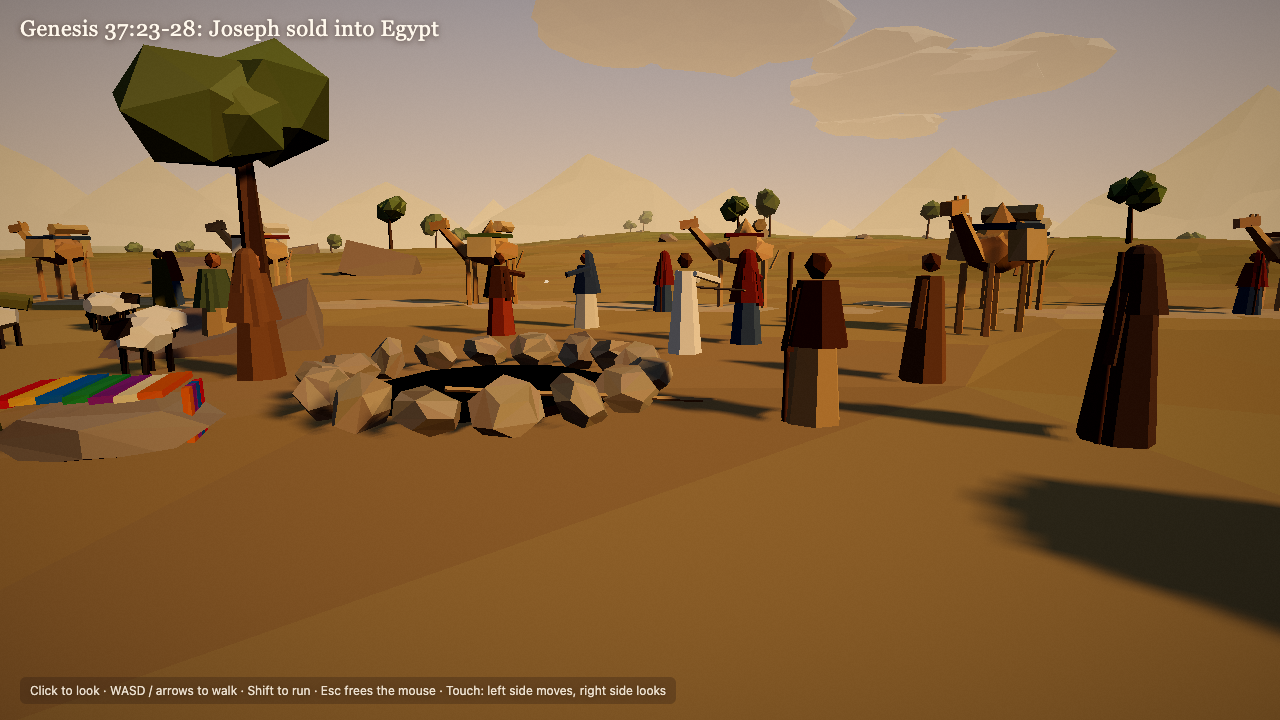
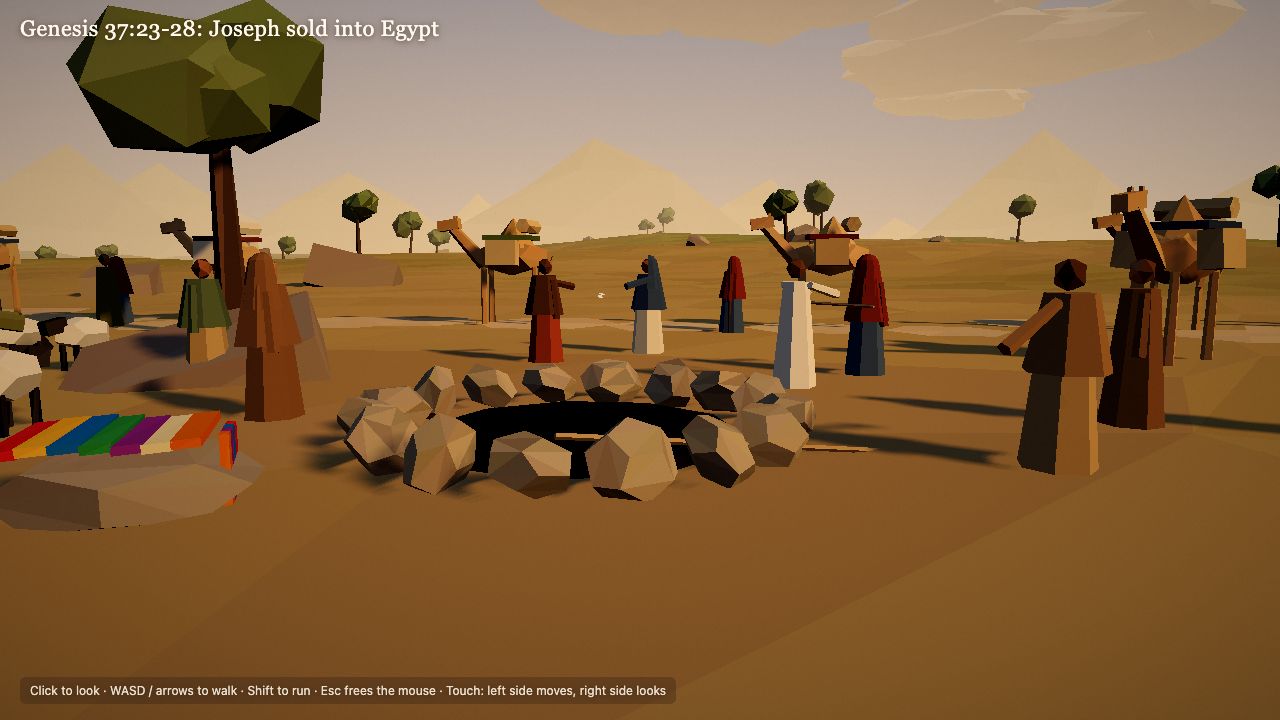
feat: polish lowpoly scenes ot-13 to ot-18

diff --git a/styles/lowpoly/scenes/ot-16.js b/styles/lowpoly/scenes/ot-16.js
@@ -33,6 +33,47 @@ function bush(ctx) {
   ctx.effects.motes({ position: [x, top, z], radius: 1.4, height: 9, count: 90, color: '#ffc870', size: 0.05, seed: 16 });
 }
 
+// Horeb as one ridged massif: each peak is a sharp cone, and taking the highest cone at every point leaves saddles and ridgelines between summits.
+function massif(ctx) {
+  const peaks = [
+    [-30, -230, 125, 115],
+    [-100, -250, 95, 80],
+    [40, -248, 100, 85],
+    [-175, -275, 72, 85],
+    [115, -285, 80, 95],
+    [-68, -190, 55, 55],
+    [4, -185, 48, 50],
+  ];
+  const base = ctx.heightAt(0, -200) - 8;
+  const geo = new THREE.PlaneGeometry(560, 300, 84, 44).rotateX(-Math.PI / 2).translate(-35, 0, -260).toNonIndexed();
+  const pos = geo.attributes.position;
+  const heightAt = (x, z) => {
+    let h = 0;
+    for (const [px, pz, ph, pr] of peaks) {
+      const k = Math.max(0, 1 - Math.hypot((x - px) * 0.85, z - pz) / pr);
+      h = Math.max(h, ph * Math.pow(k, 1.25));
+    }
+    const ridges = Math.abs(Math.sin(x * 0.07 + z * 0.03)) * 9 + Math.sin(x * 0.19 - z * 0.11) * 3;
+    return h + ridges * Math.min(1, h / 30);
+  };
+  for (let i = 0; i < pos.count; i++) pos.setY(i, base + heightAt(pos.getX(i), pos.getZ(i)));
+  geo.computeVertexNormals();
+  const col = new Float32Array(pos.count * 3);
+  const low = new THREE.Color('#7a5a4c'), mid = new THREE.Color('#9a6a56'), high = new THREE.Color('#b88470'), c = new THREE.Color();
+  const nrm = geo.attributes.normal;
+  for (let i = 0; i < pos.count; i += 3) {
+    const y = (pos.getY(i) + pos.getY(i + 1) + pos.getY(i + 2)) / 3 - base;
+    const steep = 1 - nrm.getY(i);
+    c.copy(low).lerp(mid, Math.min(1, y / 60)).lerp(high, Math.max(0, Math.min(1, (y - 60) / 60)));
+    c.multiplyScalar(1 - steep * 0.35 + (ctx.rand() - 0.5) * 0.08);
+    for (let k = 0; k < 3; k++) col.set([c.r, c.g, c.b], (i + k) * 3);
+  }
+  geo.setAttribute('color', new THREE.BufferAttribute(col, 3));
+  const mesh = new THREE.Mesh(geo, new THREE.MeshLambertMaterial({ vertexColors: true, flatShading: true }));
+  mesh.receiveShadow = true;
+  ctx.scene.add(mesh);
+}
+
 export default {
   title: 'Exodus 3:1-6: The burning bush',
   seed: 3,
@@ -44,18 +85,18 @@ export default {
   sky: { top: '#2a3060', horizon: '#e88a5a', ground: '#7a5a50', sunColor: '#ffb070', glow: 1.3 },
   fog: { color: '#8a6a6a', near: 60, far: 520 },
   clouds: { count: 40, shadow: '#3a3048', lit: '#f08a60', rim: '#ffd0a0', distance: [260, 900], altitude: [90, 220], hole: 0.15 },
-  mountains: { count: 50, color: '#4a4048', radius: [450, 700], height: [80, 200], haze: 0.45 },
+  mountains: { count: 50, color: '#4a3c48', radius: [500, 760], height: [40, 110], haze: 0.5 },
   bloom: { strength: 0.8, radius: 0.6, threshold: 0.8 },
   grade: { saturation: 1.12, contrast: 1.08, vignette: 0.5, shadowTint: '#2a2050', highlightTint: '#ffd6a8' },
   shadow: { center: [0, -8], radius: 45 },
 
-  player: { start: [3, 0], yaw: 0.12, pitch: 0.02, eye: 1.65, speed: 4 },
+  player: { start: [2.6, -3.6], yaw: 0.26, pitch: 0.1, eye: 1.65, speed: 4 },
 
   terrain: {
     size: 900,
     segments: 220,
     seed: 30,
-    hills: 70,
+    hills: 38,
     hillScale: 0.009,
     bumps: 0.6,
     flats: [{ x: 0, z: -4, r: 22, falloff: 40, height: 4 }],
@@ -70,14 +111,11 @@ export default {
 
   custom(ctx) {
     bush(ctx);
-    // Horeb's peak rising behind the bush.
-    for (const [x, z, r, h, c] of [[-10, -190, 70, 95, '#7a6460'], [50, -210, 60, 70, '#806a62'], [-80, -200, 55, 60, '#74605a'], [10, -170, 40, 45, '#86706a']]) {
-      ctx.solid.add(new THREE.DodecahedronGeometry(1, 0), { position: [x, ctx.heightAt(x, z) - h * 0.35, z], rotation: [0.15, ctx.rand() * 3, 0.1], scale: [r * 1.3, h, r], color: c, jitter: 0.1 });
-    }
+    massif(ctx);
 
     // Moses kneels with his face hidden, shoes off, staff laid beside him.
     const M = [-2.0, -10.2];
-    person(ctx, { x: M[0], z: M[1], face: BUSH, robe: '#8a6a48', mantle: '#5a4434', hood: true, skin: '#9b6a46', pose: 'kneel', arms: 'face' });
+    person(ctx, { x: M[0], z: M[1], face: BUSH, robe: '#a87e56', mantle: '#74563e', hood: true, skin: '#9b6a46', pose: 'kneel', arms: 'face' });
     const y = ctx.heightAt(M[0], M[1]);
     for (const dx of [1.0, 1.25]) ctx.solid.box(0.12, 0.05, 0.28, { position: [M[0] + dx, ctx.heightAt(M[0] + dx, M[1] + 1.2) + 0.03, M[1] + 1.2], rotation: [0, 0.3, 0], color: '#5a3a24' });
     ctx.solid.add(new THREE.CylinderGeometry(0.03, 0.035, 1.9, 5), { position: [M[0] - 0.8, y + 0.06, M[1] + 0.3], rotation: [0, 0.4, Math.PI / 2], color: '#5a4030' });

diff --git a/styles/lowpoly/scenes/ot-15.js b/styles/lowpoly/scenes/ot-15.js
@@ -30,7 +30,7 @@ function basket(ctx) {
   const cloth = new THREE.Mesh(new THREE.BoxGeometry(0.4, 0.08, 0.3), new THREE.MeshLambertMaterial({ color: '#efe8d8' }));
   cloth.position.set(0, 0.06, 0.25);
   g.add(cloth);
-  g.scale.setScalar(1.4);
+  g.scale.setScalar(1.8);
   g.position.set(BASKET[0], WATER_Y, BASKET[1]);
   g.rotation.y = 0.6;
   g.traverse((m) => (m.castShadow = true));
@@ -44,7 +44,7 @@ function basket(ctx) {
 export default {
   title: 'Exodus 2:1-10: Moses in the bulrushes',
   seed: 2,
-  fov: 60,
+  fov: 44,
   exposure: 1.0,
 
   sun: { direction: [0.8, 0.35, -0.3], color: '#ffd6a0', intensity: 3.0 },
@@ -57,7 +57,7 @@ export default {
   grade: { saturation: 1.12, contrast: 1.05, vignette: 0.35, shadowTint: '#2a3a50', highlightTint: '#ffe8c4' },
   shadow: { center: [0, -6], radius: 40 },
 
-  player: { start: [0.8, 1.8], yaw: -0.02, pitch: -0.1, eye: 1.65, speed: 4 },
+  player: { start: [4.6, 3.2], yaw: 0.1, pitch: -0.04, eye: 1.65, speed: 4 },
 
   terrain: {
     size: 640,
@@ -82,7 +82,7 @@ export default {
     ctx.scene.add(far);
 
     basket(ctx);
-    reeds(ctx, { x: 5.8, z: -10.5, r: 2.4, count: 70, papyrus: 0.5, minY: -0.9 });
+    reeds(ctx, { x: 7.0, z: -11.6, r: 2.0, count: 60, papyrus: 0.5, minY: -0.9 });
     reeds(ctx, { x: 1.0, z: -11.8, r: 1.8, count: 40, papyrus: 0.5, minY: -0.9 });
     reeds(ctx, { x: 4.0, z: -13.2, r: 2.2, count: 50, papyrus: 0.5, minY: -0.9 });
     reeds(ctx, { x: 9.5, z: -7.5, r: 2.6, count: 70, papyrus: 0.45, minY: -0.9 });
@@ -92,7 +92,7 @@ export default {
     }
     for (let x = -80; x < 80; x += 5 + ctx.rand() * 6) reeds(ctx, { x, z: RIVER_Z - 15 + ctx.rand.range(-2, 1), r: ctx.rand.range(1.5, 3), count: 25, papyrus: 0.5, minY: -0.9 });
 
-    palm(ctx, { x: -9, z: -3, h: 8 });
+    palm(ctx, { x: -13, z: -6.5, h: 8 });
     palm(ctx, { x: -11.5, z: 1, h: 6.5 });
     palm(ctx, { x: 14, z: -2, h: 7.5 });
     palm(ctx, { x: 17, z: 3, h: 9 });
@@ -103,18 +103,18 @@ export default {
 
     // Pharaoh's daughter at the water's edge, pointing to the ark.
     const linen = '#f4efe2';
-    person(ctx, { x: -1.2, z: -6.6, face: BASKET, robe: linen, skin: '#a87652', arms: ['down', 'forward'], collar: '#d6a83a', nemes: '#1e1712', belt: '#2f6aa0', scale: 1.02 });
+    person(ctx, { x: -1.2, z: -6.6, face: BASKET, robe: linen, skin: '#a87652', arms: ['down', 'forward'], collar: '#d6a83a', nemes: '#2e2620', belt: '#2f6aa0', scale: 1.02 });
     // Her maid wading out to fetch it.
-    person(ctx, { x: 2.2, z: -9.6, y: -0.95, face: BASKET, robe: '#e6dcc4', skin: '#9b6a46', arms: 'forward', nemes: '#1e1712' });
+    person(ctx, { x: 2.2, z: -9.6, y: -0.95, face: BASKET, robe: '#e6dcc4', skin: '#9b6a46', arms: 'forward', nemes: '#2e2620' });
     // Her maidens walking along the river's side.
     const maidens = [[-4.4, -5.2], [-5.8, -3.4], [-3.2, -3.2], [-7.2, -5.8]];
-    maidens.forEach(([x, z], i) => person(ctx, { x, z, face: [-1, -7], robe: i % 2 ? '#e8e0c8' : '#d8ccb0', skin: '#9b6a46', nemes: '#1e1712', collar: i === 0 ? '#3f8a8a' : null, arms: i === 2 ? 'face' : 'down' }));
+    maidens.forEach(([x, z], i) => person(ctx, { x, z, face: [-1, -7], robe: i % 2 ? '#e8e0c8' : '#d8ccb0', skin: '#9b6a46', nemes: '#2e2620', collar: i === 0 ? '#3f8a8a' : null, arms: i === 2 ? 'face' : 'down' }));
     // A parasol carried by one of them.
     ctx.solid.add(new THREE.CylinderGeometry(0.03, 0.03, 2.6, 5), { position: [-5.6, 1.3, -3.1], color: '#6a4a2c' });
     ctx.solid.add(new THREE.ConeGeometry(1.1, 0.4, 8), { position: [-5.6, 2.7, -3.1], color: '#e8d8a8' });
     // Miriam, watching from the reeds.
-    person(ctx, { x: 10.4, z: -5.6, face: BASKET, robe: '#7a5a3c', mantle: '#a34f32', hood: true, skin: '#9b6a46', pose: 'kneel', scale: 0.8 });
-    reeds(ctx, { x: 11.2, z: -4.2, r: 1.4, count: 30, papyrus: 0.3 });
+    person(ctx, { x: 7.6, z: -4.6, face: BASKET, robe: '#7a5a3c', mantle: '#a34f32', hood: true, skin: '#9b6a46', pose: 'kneel', scale: 0.8 });
+    reeds(ctx, { x: 8.6, z: -3.6, r: 1.1, count: 22, papyrus: 0.3 });
 
     // washing jars and folded linen on the bank
     for (const [x, z, c] of [[-6.2, -1.6, '#b0603a'], [-6.7, -1.1, '#c0784a'], [-5.6, -0.9, '#a8583a']]) {

diff --git a/styles/lowpoly/scenes/lib/ot-13-kit.js b/styles/lowpoly/scenes/lib/ot-13-kit.js
@@ -1,5 +1,6 @@
 // Shared props for ot-13 through ot-18: people with poses, animals, water, fire, Egyptian buildings, night sky.
 import * as THREE from 'three';
+import { mergeGeometries } from 'three/addons/utils/BufferGeometryUtils.js';
 import { parts } from '../../engine/crowd.js';
 
 export function frame(x, z, rot = 0) {
@@ -31,6 +32,17 @@ function paint(geo, colorAt) {
   g.setAttribute('color', new THREE.BufferAttribute(col, 3));
   g.computeVertexNormals();
   return g;
+}
+
+// Straight-cut Egyptian bob: a crown dome whose front edge is the fringe, and a skirt cut level at the jaw.
+function bobWig(color) {
+  const faceGap = Math.PI * 0.62;
+  const dome = new THREE.SphereGeometry(0.168, 10, 4, 0, Math.PI * 2, 0, Math.PI / 2).scale(1.05, 0.9, 1.08).translate(0, 1.565, -0.005);
+  const skirt = new THREE.CylinderGeometry(0.176, 0.2, 0.24, 10, 1, true, faceGap / 2, Math.PI * 2 - faceGap).translate(0, 1.445, -0.012);
+  const hem = new THREE.RingGeometry(0.15, 0.2, 10, 1, Math.PI / 2 + faceGap / 2, Math.PI * 2 - faceGap).rotateX(Math.PI / 2).translate(0, 1.326, -0.012);
+  const shade = (y) => new THREE.Color(y < 1.45 ? 0.8 : 1, y < 1.45 ? 0.8 : 1, y < 1.45 ? 0.8 : 1);
+  const merged = mergeGeometries([dome, skirt, hem].map((g) => paint(g, shade)));
+  return new THREE.Mesh(merged, new THREE.MeshLambertMaterial({ color, vertexColors: true, flatShading: true, side: THREE.DoubleSide }));
 }
 
 const ARM_POSES = { down: [0.12, 0.05], out: [0.95, 0.35], up: [2.75, 0.2], forward: [0.18, 1.35], open: [0.7, 0.9], face: [0.5, 2.3] };
@@ -69,14 +81,7 @@ export function person(ctx, o) {
     if (ra === 'forward') s.rotation.x = 0.9;
     group.add(s);
   }
-  if (nemes) {
-    const cap = new THREE.Mesh(new THREE.CylinderGeometry(0.14, 0.18, 0.3, 8, 1).translate(0, 1.62, -0.085), mat(nemes));
-    group.add(cap);
-    for (const side of [-1, 1]) {
-      const lap = new THREE.Mesh(new THREE.BoxGeometry(0.08, 0.3, 0.06).translate(side * 0.15, 1.38, 0.06), mat(nemes));
-      group.add(lap);
-    }
-  }
+  if (nemes) group.add(bobWig(nemes));
   if (collar) group.add(new THREE.Mesh(new THREE.CylinderGeometry(0.24, 0.27, 0.07, 10).translate(0, 1.35, 0), mat(collar, 0.25)));
   if (belt) group.add(new THREE.Mesh(new THREE.CylinderGeometry(0.235, 0.24, 0.08, 7).translate(0, 0.86, 0), mat(belt, 0.1)));
 

diff --git a/styles/lowpoly/scenes/ot-17.js b/styles/lowpoly/scenes/ot-17.js
@@ -35,7 +35,7 @@ function mainHouse(ctx) {
   const light = new THREE.PointLight('#ffb070', 22, 14, 1.3);
   light.position.set(x, y + 2.4, z - 0.8);
   ctx.scene.add(light);
-  const spill = new THREE.PointLight('#ffa860', 6, 7, 1.4);
+  const spill = new THREE.PointLight('#ffa860', 9, 9, 1.4);
   spill.position.set(x, y + 1.6, z + 4.6);
   ctx.scene.add(spill);
   // table with the roasted lamb, unleavened bread and bitter herbs
@@ -68,7 +68,7 @@ function mainHouse(ctx) {
   const [bx, bz] = [x + 1.6, z + 4.3];
   ctx.solid.add(new THREE.CylinderGeometry(0.35, 0.25, 0.25, 8), { position: [bx, y + 0.13, bz], color: '#8a6a4a' });
   ctx.solid.add(new THREE.CircleGeometry(0.3, 8).rotateX(-Math.PI / 2), { position: [bx, y + 0.26, bz], color: '#5a0a0c' });
-  ctx.solid.add(new THREE.CylinderGeometry(0.015, 0.015, 0.6, 4), { position: [bx + 0.15, y + 0.3, bz], rotation: [0, 0, 0.6], color: '#6a7a3a' });
+  ctx.solid.add(new THREE.CylinderGeometry(0.015, 0.015, 0.6, 4), { position: [bx + 0.15, y + 0.3, bz], rotation: [0, 0, -0.6], color: '#6a7a3a' });
   ctx.solid.add(new THREE.IcosahedronGeometry(0.1, 0), { position: [bx + 0.3, y + 0.55, bz], color: '#5a7a3a' });
 }
 
@@ -78,8 +78,8 @@ export default {
   fov: 62,
   exposure: 1.1,
 
-  sun: { direction: [0.35, 0.5, 0.8], color: '#6a84c8', intensity: 0.75 },
-  light: { sky: '#3a4a88', ground: '#2a2232', hemi: 0.95 },
+  sun: { direction: [0.35, 0.5, 0.8], color: '#7a94d8', intensity: 1.1 },
+  light: { sky: '#4a5a98', ground: '#3a3040', hemi: 1.15 },
   sky: { top: '#060a1e', horizon: '#1e2a4a', ground: '#141420', sunColor: '#8aa0d0', glow: 0.25 },
   fog: { color: '#141a30', near: 30, far: 200 },
   mountains: { count: 30, color: '#141828', radius: [420, 600], height: [20, 50], haze: 0.4 },
@@ -87,7 +87,7 @@ export default {
   grade: { saturation: 1.05, contrast: 1.1, vignette: 0.5, shadowTint: '#101830', highlightTint: '#ffd6a0' },
   shadow: { center: [0, -2], radius: 40 },
 
-  player: { start: [1.2, 4.2], yaw: 0.05, pitch: -0.02, eye: 1.65, speed: 3.5 },
+  player: { start: [0.9, 0.9], yaw: 0.06, pitch: 0.0, eye: 1.65, speed: 3.5 },
 
   terrain: {
     size: 600,

diff --git a/styles/lowpoly/scenes/ot-13.js b/styles/lowpoly/scenes/ot-13.js
@@ -72,7 +72,7 @@ function caravan(ctx) {
 export default {
   title: 'Genesis 37:23-28: Joseph sold into Egypt',
   seed: 37,
-  fov: 60,
+  fov: 50,
   exposure: 1.0,
 
   sun: { direction: [0.7, 0.45, 0.35], color: '#ffd29a', intensity: 3.0 },
@@ -85,7 +85,7 @@ export default {
   grade: { saturation: 1.1, contrast: 1.06, vignette: 0.38, shadowTint: '#3a2e50', highlightTint: '#ffe6c0' },
   shadow: { center: [0, -12], radius: 60 },
 
-  player: { start: [2.5, 1.2], yaw: 0.1, pitch: -0.17, eye: 1.65, speed: 4.5 },
+  player: { start: [1.4, 1.0], yaw: 0.12, pitch: -0.13, eye: 1.65, speed: 4.5 },
 
   terrain: {
     size: 1100,
@@ -143,13 +143,13 @@ export default {
     const brothers = [
       [-3.4, -6.5, robes.brown, '#7d5c3e', 'down'],
       [-4.2, -3.6, robes.olive, null, 'forward'],
-      [3.6, -5, robes.tan, '#5a3d2b', 'down'],
+      [4.0, -5.4, robes.tan, '#8a6a48', 'out'],
       [-4.6, -1.2, robes.grey, '#8a7a5a', 'down'],
-      [6.2, -4.6, robes.dark, null, 'down'],
+      [7.4, -6.8, robes.grey, '#7d5c3e', 'down'],
       [-5.5, -8.4, robes.tan, '#556246', 'down'],
       [5.4, -7.2, robes.brown, null, 'down'],
     ];
-    for (const [x, z, robe, mantle, arms] of brothers) person(ctx, { x, z, face: [1.5, -9.5], robe, mantle, skin: ctx.rand.pick(['#8a5a3c', '#9b6a46', '#a87652']), arms, staff: arms === 'down' && ctx.rand() < 0.5, hood: ctx.rand() < 0.3 });
+    for (const [x, z, robe, mantle, arms] of brothers) person(ctx, { x, z, face: [x > 0 ? 0.5 : -0.5, -8], robe, mantle, skin: ctx.rand.pick(['#8a5a3c', '#9b6a46', '#a87652']), arms, staff: arms === 'down' && ctx.rand() < 0.5, hood: ctx.rand() < 0.3 });
 
     // Their father's flock grazing on the hillside.
     for (let i = 0; i < 46; i++) {

diff --git a/styles/lowpoly/scenes/ot-14.js b/styles/lowpoly/scenes/ot-14.js
@@ -99,7 +99,7 @@ function shafts(ctx, sunDir) {
 export default {
   title: 'Genesis 45:1-15: Joseph reveals himself',
   seed: 45,
-  fov: 62,
+  fov: 54,
   exposure: 1.05,
 
   sun: { direction: [0.62, 0.72, 0.1], color: '#ffd8a0', intensity: 3.2 },
@@ -110,7 +110,7 @@ export default {
   grade: { saturation: 1.1, contrast: 1.08, vignette: 0.45, shadowTint: '#3a2a40', highlightTint: '#ffe2b0' },
   shadow: { center: [0, (Z0 + Z1) / 2], radius: 30 },
 
-  player: { start: [0.5, 2.8], yaw: 0.02, pitch: -0.02, eye: 1.65, speed: 3.5 },
+  player: { start: [0.3, -0.2], yaw: 0.0, pitch: 0.02, eye: 1.65, speed: 3.5 },
 
   terrain: {
     size: 400,
@@ -143,12 +143,12 @@ export default {
     const brothers = [
       [-2.6, -6.4, 'stand', 'face', '#8b6b4a', '#5a3d2b'],
       [-1.6, -4.4, 'kneel', 'down', '#a0825c', null],
-      [2.2, -5.0, 'bow', 'down', '#7a4e36', '#3f4d5e'],
+      [2.2, -5.0, 'kneel', 'forward', '#7a4e36', '#3f4d5e'],
       [3.2, -6.6, 'stand', 'face', '#6e5a44', '#8a7a5a'],
       [-4.4, -4.6, 'stand', 'down', '#94704e', '#556246'],
       [4.6, -3.6, 'kneel', 'down', '#5e4b3a', '#a34f32'],
       [-3.6, -2.4, 'stand', 'face', '#b59a72', '#6d3b2e'],
-      [-5.4, -6.8, 'bow', 'down', '#6b6f4a', null],
+      [-5.4, -6.8, 'kneel', 'face', '#6b6f4a', null],
       [3.4, -2.0, 'stand', 'open', '#9a4a34', '#5a3d2b'],
       [5.6, -6.0, 'stand', 'down', '#4f5a6b', '#8a7a5a'],
     ];

diff --git a/styles/lowpoly/scenes/ot-18.js b/styles/lowpoly/scenes/ot-18.js
@@ -71,7 +71,7 @@ export default {
   grade: { saturation: 1.1, contrast: 1.08, vignette: 0.5, shadowTint: '#101a38', highlightTint: '#ffcf98' },
   shadow: { center: [0, -60], radius: 70 },
 
-  player: { start: [-3, -120], yaw: Math.PI, pitch: -0.13, eye: 1.65, speed: 5 },
+  player: { start: [-3, -119], yaw: Math.PI, pitch: -0.06, eye: 1.65, speed: 5 },
 
   terrain: {
     size: 1000,
@@ -82,6 +82,7 @@ export default {
     flats: [...seaFlats, { x: -3, z: -124, r: 7, falloff: 16, height: 9 }],
     colors: { ground: '#7a6a54', groundAlt: '#6e5e4a', grass: '#5a5a3a', high: '#7a6a54', rock: '#5e5244' },
     patches: [
+      { x: -3, z: -121, r: 10, color: '#a08870', strength: 0.6, rough: 0.4 },
       { x: 0, z: -60, r: 14, color: '#5e5446', strength: 0.7, rough: 0.4 },
       { x: 0, z: -20, r: 14, color: '#5e5446', strength: 0.7, rough: 0.4 },
       { x: 0, z: 20, r: 14, color: '#5e5446', strength: 0.7, rough: 0.4 },
